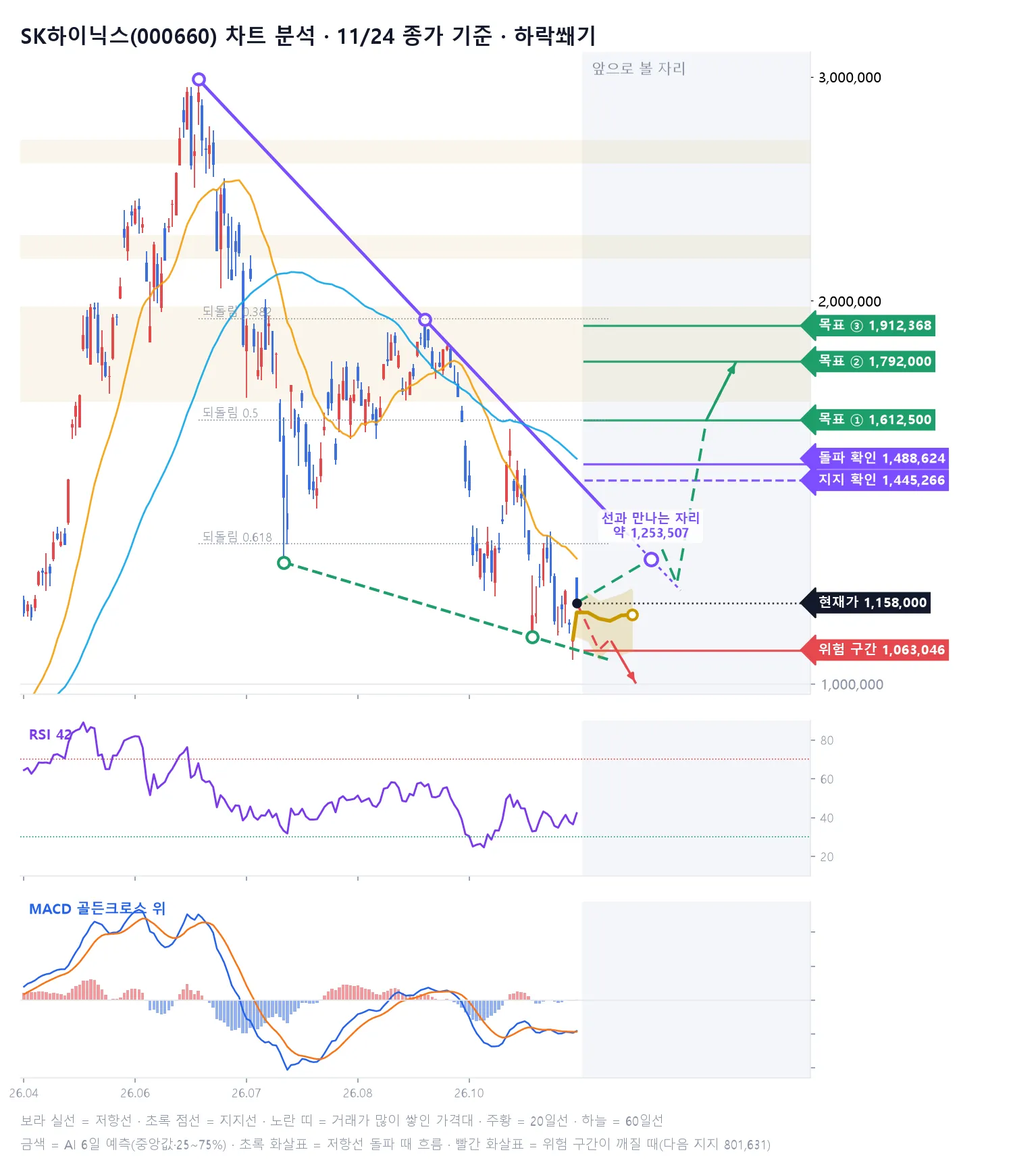
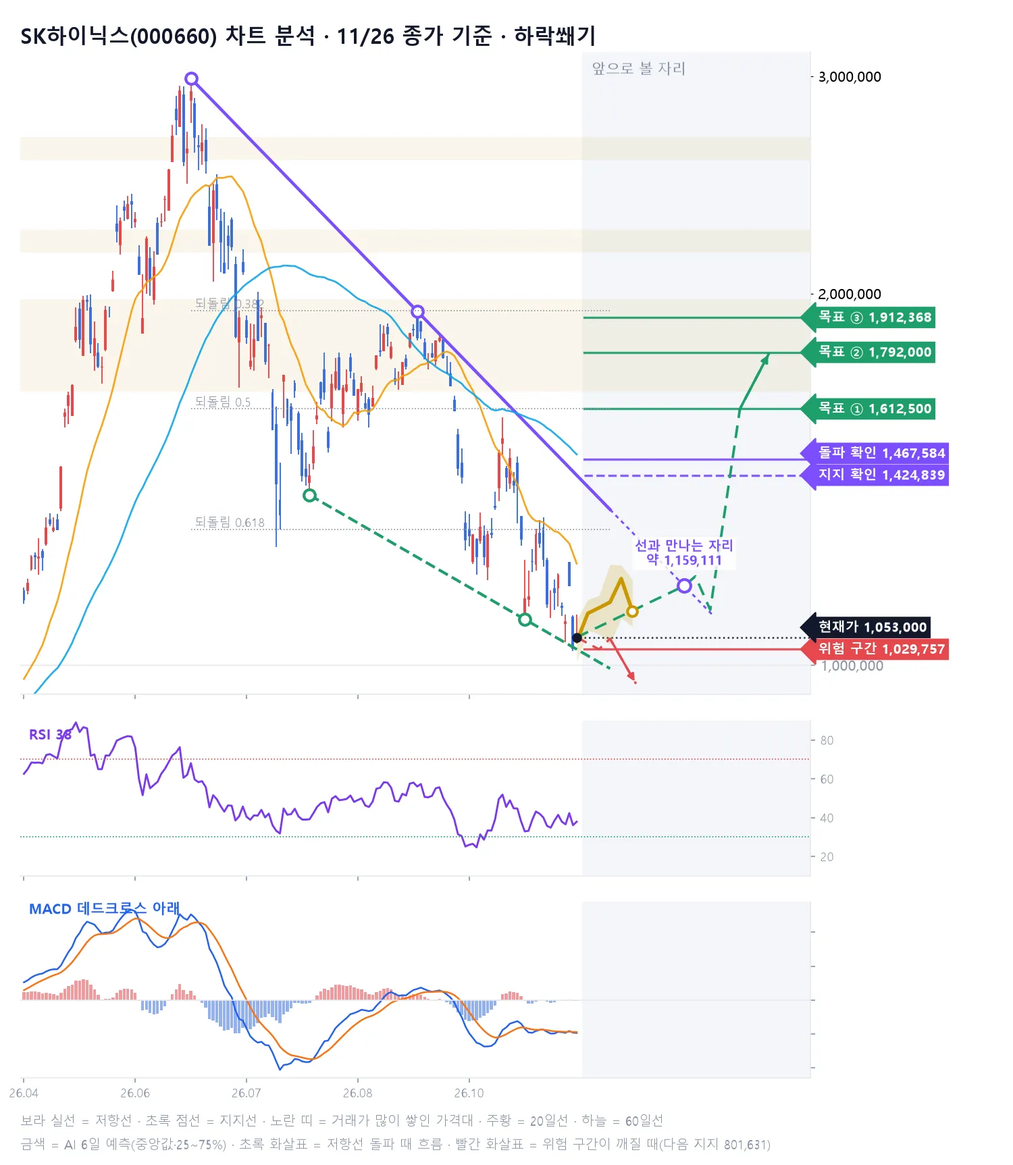
무료 공개 종목 페이지 자동 갱신

diff --git a/s/index.html b/s/index.html
@@ -93,8 +93,8 @@
     <h1>오늘의 무료 공개 종목</h1>
     <p style="margin:0;color:#B7BFD0">유튜브 쇼츠에 나온 종목의 AI 판정과 6일 예측 흐름을 누구나 볼 수 있어요</p>
   </section>
-  <div class="pk-list"><a class="card pk-item" href="BTC/"><span><b>비트코인(BTC)</b><small>코인 · 업비트 · 11/25 예측</small></span><b class="v-up">상승</b></a><a class="card pk-item" href="ETH/"><span><b>이더리움(ETH)</b><small>코인 · 업비트 · 11/26 예측</small></span><b class="v-mx">혼돈</b></a><a class="card pk-item" href="ZRO/"><span><b>레이어제로(ZRO)</b><small>코인 · 업비트 · 11/26 예측</small></span><b class="v-up">상승</b></a><a class="card pk-item" href="AAVE/"><span><b>에이브(AAVE)</b><small>코인 · 업비트 · 11/26 예측</small></span><b class="v-up">상승</b></a><a class="card pk-item" href="ENS/"><span><b>이더리움네임서비스(ENS)</b><small>코인 · 업비트 · 11/26 예측</small></span><b class="v-up">상승</b></a><a class="card pk-item" href="1INCH/"><span><b>1인치네트워크(1INCH)</b><small>코인 · 업비트 · 11/26 예측</small></span><b class="v-mx">혼돈</b></a><a class="card pk-item" href="XLM/"><span><b>스텔라루멘(XLM)</b><small>코인 · 업비트 · 11/26 예측</small></span><b class="v-up">상승</b></a><a class="card pk-item" href="NVIDIA/"><span><b>엔비디아(NVDA)</b><small>미국 주식 · 11/25 예측</small></span><b class="v-up">상승</b></a><a class="card pk-item" href="%EC%82%BC%EC%84%B1%EC%A0%84%EC%9E%90/"><span><b>삼성전자(005930)</b><small>코스피200 · 11/26 예측</small></span><b class="v-mx">혼돈</b></a><a class="card pk-item" href="%ED%98%84%EB%8C%80%EA%B1%B4%EC%84%A4/"><span><b>현대건설</b><small>코스피200 · 11/27 예측</small></span><b class="v-up">상승</b></a><a class="card pk-item" href="KODEXWTI%EC%9B%90%EC%9C%A0%EC%84%A0%EB%AC%BCH/"><span><b>KODEXWTI원유선물H</b><small>코스피200 · 11/27 예측</small></span><b class="v-mx">혼돈</b></a><a class="card pk-item" href="%EC%82%BC%EC%84%B1%EC%A4%91%EA%B3%B5%EC%97%85/"><span><b>삼성중공업</b><small>코스피200 · 11/27 예측</small></span><b class="v-up">상승</b></a><a class="card pk-item" href="LS/"><span><b>LS</b><small>코스피200 · 11/27 예측</small></span><b class="v-up">상승</b></a><a class="card pk-item" href="KB%EA%B8%88%EC%9C%B5/"><span><b>KB금융</b><small>코스피200 · 11/27 예측</small></span><b class="v-up">상승</b></a><a class="card pk-item" href="KOSDAQ/"><span><b>코스닥(KOSDAQ)</b><small>코스피 지수 · 11/27 예측</small></span><b class="v-up">상승</b></a><a class="card pk-item" href="KOSPI/"><span><b>코스피(KOSPI)</b><small>코스피 지수 · 11/27 예측</small></span><b class="v-up">상승</b></a></div>
-  <h2 style="font-size:17px;margin:12px 0 0">지난 공개 종목</h2><div class="pk-list"><a class="card pk-item" href="%EB%AF%B8%EB%9E%98%EC%97%90%EC%85%8B%EC%A6%9D%EA%B6%8C/"><span><b>미래에셋증권</b><small>코스피200 · 11/26 예측</small></span><b class="v-up">상승</b></a><a class="card pk-item" href="TIGER%EB%AF%B8%EA%B5%AD%ED%85%8C%ED%81%ACTOP10/"><span><b>TIGER미국테크TOP10</b><small>코스피200 · 11/26 예측</small></span><b class="v-up">상승</b></a><a class="card pk-item" href="KODEX200/"><span><b>KODEX200</b><small>코스피200 · 11/26 예측</small></span><b class="v-up">상승</b></a><a class="card pk-item" href="CHZ/"><span><b>칠리즈(CHZ)</b><small>코인 · 업비트 · 11/25 예측</small></span><b class="v-up">상승</b></a><a class="card pk-item" href="ARK/"><span><b>아크(ARK)</b><small>코인 · 업비트 · 11/25 예측</small></span><b class="v-mx">혼돈</b></a><a class="card pk-item" href="RUSSELL2000/"><span><b>러셀2000(RUSSELL2000)</b><small>미국 주식 · 11/25 예측</small></span><b class="v-up">상승</b></a><a class="card pk-item" href="MONSTER_BEVERAGE/"><span><b>몬스터 베버리지(MONSTER_BEVERAGE)</b><small>미국 주식 · 11/25 예측</small></span><b class="v-up">상승</b></a><a class="card pk-item" href="BITMINE/"><span><b>비트마인(BITMINE)</b><small>미국 주식 · 11/25 예측</small></span><b class="v-up">상승</b></a><a class="card pk-item" href="INTUIT/"><span><b>인튜이트(INTUIT)</b><small>미국 주식 · 11/25 예측</small></span><b class="v-up">상승</b></a><a class="card pk-item" href="GALAXY_DIGITAL/"><span><b>갤럭시 디지털(GALAXY_DIGITAL)</b><small>미국 주식 · 11/25 예측</small></span><b class="v-up">상승</b></a><a class="card pk-item" href="%EC%82%BC%EC%84%B1%EB%B0%94%EC%9D%B4%EC%98%A4%EB%A1%9C%EC%A7%81%EC%8A%A4/"><span><b>삼성바이오로직스</b><small>코스피200 · 11/25 예측</small></span><b class="v-mx">혼돈</b></a><a class="card pk-item" href="%EA%B3%A0%EB%A0%A4%EC%95%84%EC%97%B0/"><span><b>고려아연</b><small>코스피200 · 11/25 예측</small></span><b class="v-up">상승</b></a><a class="card pk-item" href="HD%ED%95%9C%EA%B5%AD%EC%A1%B0%EC%84%A0%ED%95%B4%EC%96%91/"><span><b>HD한국조선해양</b><small>코스피200 · 11/25 예측</small></span><b class="v-mx">혼돈</b></a><a class="card pk-item" href="SK%EC%9D%B4%EB%85%B8%EB%B2%A0%EC%9D%B4%EC%85%98/"><span><b>SK이노베이션</b><small>코스피200 · 11/25 예측</small></span><b class="v-up">상승</b></a><a class="card pk-item" href="SK%ED%95%98%EC%9D%B4%EB%8B%89%EC%8A%A4/"><span><b>SK하이닉스(000660)</b><small>코스피200 · 11/24 예측</small></span><b class="v-up">상승</b></a><a class="card pk-item" href="ATH/"><span><b>에이셔(ATH)</b><small>코인 · 업비트 · 11/24 예측</small></span><b class="v-up">상승</b></a><a class="card pk-item" href="DATA/"><span><b>데이터네트워크(DATA)</b><small>코인 · 업비트 · 11/24 예측</small></span><b class="v-mx">혼돈</b></a><a class="card pk-item" href="KODEX2%EC%B0%A8%EC%A0%84%EC%A7%80%EC%82%B0%EC%97%85/"><span><b>KODEX2차전지산업</b><small>코스피200 · 11/24 예측</small></span><b class="v-up">상승</b></a><a class="card pk-item" href="TIGER2%EC%B0%A8%EC%A0%84%EC%A7%80%ED%85%8C%EB%A7%88/"><span><b>TIGER2차전지테마</b><small>코스피200 · 11/24 예측</small></span><b class="v-up">상승</b></a><a class="card pk-item" href="KODEX%EC%9E%90%EB%8F%99%EC%B0%A8/"><span><b>KODEX자동차</b><small>코스피200 · 11/24 예측</small></span><b class="v-up">상승</b></a><a class="card pk-item" href="%ED%95%9C%ED%99%94/"><span><b>한화</b><small>코스피200 · 11/24 예측</small></span><b class="v-up">상승</b></a><a class="card pk-item" href="SAND/"><span><b>샌드박스(SAND)</b><small>코인 · 업비트 · 11/23 예측</small></span><b class="v-up">상승</b></a><a class="card pk-item" href="SUI/"><span><b>수이(SUI)</b><small>코인 · 업비트 · 11/23 예측</small></span><b class="v-up">상승</b></a><a class="card pk-item" href="MTL/"><span><b>메탈(MTL)</b><small>코인 · 업비트 · 11/22 예측</small></span><b class="v-up">상승</b></a><a class="card pk-item" href="TESLA/"><span><b>테슬라(TSLA)</b><small>미국 주식 · 11/21 예측</small></span><b class="v-up">상승</b></a><a class="card pk-item" href="PALANTIR/"><span><b>팔란티어(PALANTIR)</b><small>미국 주식 · 11/21 예측</small></span><b class="v-up">상승</b></a><a class="card pk-item" href="DOW/"><span><b>다우존스(DOW)</b><small>미국 주식 · 11/21 예측</small></span><b class="v-up">상승</b></a><a class="card pk-item" href="MERCADOLIBRE/"><span><b>메르카도리브레(MERCADOLIBRE)</b><small>미국 주식 · 11/21 예측</small></span><b class="v-up">상승</b></a><a class="card pk-item" href="%ED%95%9C%ED%99%94%EC%86%94%EB%A3%A8%EC%85%98/"><span><b>한화솔루션</b><small>코스피200 · 11/21 예측</small></span><b class="v-mx">혼돈</b></a><a class="card pk-item" href="KODEX%EB%AF%B8%EA%B5%AD%EB%82%98%EC%8A%A4%EB%8B%A5100TR/"><span><b>KODEX미국나스닥100TR</b><small>코스피200 · 11/21 예측</small></span><b class="v-up">상승</b></a><a class="card pk-item" href="ETC/"><span><b>이더리움클래식(ETC)</b><small>코인 · 업비트 · 11/21 예측</small></span><b class="v-up">상승</b></a><a class="card pk-item" href="MANA/"><span><b>디센트럴랜드(MANA)</b><small>코인 · 업비트 · 11/21 예측</small></span><b class="v-up">상승</b></a><a class="card pk-item" href="APT/"><span><b>앱토스(APT)</b><small>코인 · 업비트 · 11/20 예측</small></span><b class="v-up">상승</b></a><a class="card pk-item" href="STRAX/"><span><b>저트라(STRAX)</b><small>코인 · 업비트 · 11/20 예측</small></span><b class="v-up">상승</b></a><a class="card pk-item" href="%ED%95%9C%EC%A0%84%EA%B8%B0%EC%88%A0/"><span><b>한전기술</b><small>코스피200 · 11/20 예측</small></span><b class="v-up">상승</b></a><a class="card pk-item" href="KODEX%EA%B3%A8%EB%93%9C%EC%84%A0%EB%AC%BCH/"><span><b>KODEX골드선물H</b><small>코스피200 · 11/20 예측</small></span><b class="v-mx">혼돈</b></a><a class="card pk-item" href="STRATEGY/"><span><b>스트래티지(STRATEGY)</b><small>미국 주식 · 11/19 예측</small></span><b class="v-up">상승</b></a><a class="card pk-item" href="NETFLIX/"><span><b>넷플릭스(NETFLIX)</b><small>미국 주식 · 11/19 예측</small></span><b class="v-up">상승</b></a><a class="card pk-item" href="SHIB/"><span><b>시바이누(SHIB)</b><small>코인 · 업비트 · 11/19 예측</small></span><b class="v-up">상승</b></a><a class="card pk-item" href="TOKAMAK/"><span><b>토카막네트워크(TOKAMAK)</b><small>코인 · 업비트 · 11/19 예측</small></span><b class="v-up">상승</b></a><a class="card pk-item" href="TIGER%EB%AF%B8%EA%B5%ADSP500/"><span><b>TIGER미국SP500</b><small>코스피200 · 11/19 예측</small></span><b class="v-mx">혼돈</b></a><a class="card pk-item" href="%EA%B8%B0%EC%95%84/"><span><b>기아</b><small>코스피200 · 11/19 예측</small></span><b class="v-mx">혼돈</b></a><a class="card pk-item" href="%ED%98%84%EB%8C%80%EB%A1%9C%ED%85%9C/"><span><b>현대로템</b><small>코스피200 · 11/19 예측</small></span><b class="v-up">상승</b></a><a class="card pk-item" href="TIGER%EB%B0%98%EB%8F%84%EC%B2%B4TOP10/"><span><b>TIGER반도체TOP10</b><small>코스피200 · 11/19 예측</small></span><b class="v-up">상승</b></a><a class="card pk-item" href="MBL/"><span><b>무비블록(MBL)</b><small>코인 · 업비트 · 11/18 예측</small></span><b class="v-up">상승</b></a><a class="card pk-item" href="SC/"><span><b>시아코인(SC)</b><small>코인 · 업비트 · 11/18 예측</small></span><b class="v-up">상승</b></a><a class="card pk-item" href="ELF/"><span><b>엘프(ELF)</b><small>코인 · 업비트 · 11/18 예측</small></span><b class="v-up">상승</b></a><a class="card pk-item" href="NASDAQ100/"><span><b>나스닥100(NASDAQ100)</b><small>미국 주식 · 11/18 예측</small></span><b class="v-up">상승</b></a><a class="card pk-item" href="NASDAQ/"><span><b>나스닥(NASDAQ)</b><small>미국 주식 · 11/18 예측</small></span><b class="v-up">상승</b></a><a class="card pk-item" href="DB%ED%95%98%EC%9D%B4%ED%85%8D/"><span><b>DB하이텍</b><small>코스피200 · 11/18 예측</small></span><b class="v-up">상승</b></a><a class="card pk-item" href="%ED%95%9C%ED%99%94%EC%83%9D%EB%AA%85/"><span><b>한화생명</b><small>코스피200 · 11/18 예측</small></span><b class="v-mx">혼돈</b></a><a class="card pk-item" href="SOL/"><span><b>솔라나(SOL)</b><small>코인 · 업비트 · 11/17 예측</small></span><b class="v-up">상승</b></a><a class="card pk-item" href="HBAR/"><span><b>헤데라(HBAR)</b><small>코인 · 업비트 · 11/17 예측</small></span><b class="v-up">상승</b></a><a class="card pk-item" href="NEAR/"><span><b>니어프로토콜(NEAR)</b><small>코인 · 업비트 · 11/17 예측</small></span><b class="v-up">상승</b></a><a class="card pk-item" href="CISCO/"><span><b>시스코(CISCO)</b><small>미국 주식 · 11/17 예측</small></span><b class="v-up">상승</b></a><a class="card pk-item" href="DB%EC%86%90%ED%95%B4%EB%B3%B4%ED%97%98/"><span><b>DB손해보험</b><small>코스피200 · 11/17 예측</small></span><b class="v-up">상승</b></a><a class="card pk-item" href="NIKKEI225/"><span><b>NIKKEI225</b><small>코스피200 · 11/17 예측</small></span><b class="v-up">상승</b></a><a class="card pk-item" href="LG/"><span><b>LG</b><small>코스피200 · 11/17 예측</small></span><b class="v-up">상승</b></a><a class="card pk-item" href="NEO/"><span><b>네오(NEO)</b><small>코인 · 업비트 · 11/16 예측</small></span><b class="v-up">상승</b></a><a class="card pk-item" href="MED/"><span><b>메디블록(MED)</b><small>코인 · 업비트 · 11/16 예측</small></span><b class="v-up">상승</b></a><a class="card pk-item" href="VET/"><span><b>비체인(VET)</b><small>코인 · 업비트 · 11/16 예측</small></span><b class="v-up">상승</b></a><a class="card pk-item" href="TFUEL/"><span><b>쎄타퓨엘(TFUEL)</b><small>코인 · 업비트 · 11/16 예측</small></span><b class="v-up">상승</b></a><a class="card pk-item" href="SP500/"><span><b>S&amp;P500(SPX)</b><small>미국 주식 · 11/14 예측</small></span><b class="v-dn">하락</b></a><a class="card pk-item" href="BITCOIN_ETF_FIDELITY/"><span><b>비트코인 현물 피델리티(BITCOIN_ETF_FIDELITY)</b><small>미국 주식 · 11/14 예측</small></span><b class="v-up">상승</b></a><a class="card pk-item" href="BITCOIN_ETF_ISHARES/"><span><b>비트코인 현물 아이셰어즈(BITCOIN_ETF_ISHARES)</b><small>미국 주식 · 11/14 예측</small></span><b class="v-up">상승</b></a></div>
+  <div class="pk-list"><a class="card pk-item" href="ETH/"><span><b>이더리움(ETH)</b><small>코인 · 업비트 · 11/26 예측</small></span><b class="v-mx">혼돈</b></a><a class="card pk-item" href="ZRO/"><span><b>레이어제로(ZRO)</b><small>코인 · 업비트 · 11/26 예측</small></span><b class="v-up">상승</b></a><a class="card pk-item" href="AAVE/"><span><b>에이브(AAVE)</b><small>코인 · 업비트 · 11/26 예측</small></span><b class="v-up">상승</b></a><a class="card pk-item" href="ENS/"><span><b>이더리움네임서비스(ENS)</b><small>코인 · 업비트 · 11/26 예측</small></span><b class="v-up">상승</b></a><a class="card pk-item" href="1INCH/"><span><b>1인치네트워크(1INCH)</b><small>코인 · 업비트 · 11/26 예측</small></span><b class="v-mx">혼돈</b></a><a class="card pk-item" href="XLM/"><span><b>스텔라루멘(XLM)</b><small>코인 · 업비트 · 11/26 예측</small></span><b class="v-up">상승</b></a><a class="card pk-item" href="SK%ED%95%98%EC%9D%B4%EB%8B%89%EC%8A%A4/"><span><b>SK하이닉스(000660)</b><small>코스피200 · 11/27 예측</small></span><b class="v-mx">혼돈</b></a><a class="card pk-item" href="%EC%82%BC%EC%84%B1%EC%A0%84%EC%9E%90/"><span><b>삼성전자(005930)</b><small>코스피200 · 11/26 예측</small></span><b class="v-mx">혼돈</b></a><a class="card pk-item" href="%ED%98%84%EB%8C%80%EA%B1%B4%EC%84%A4/"><span><b>현대건설</b><small>코스피200 · 11/27 예측</small></span><b class="v-up">상승</b></a><a class="card pk-item" href="KODEXWTI%EC%9B%90%EC%9C%A0%EC%84%A0%EB%AC%BCH/"><span><b>KODEXWTI원유선물H</b><small>코스피200 · 11/27 예측</small></span><b class="v-mx">혼돈</b></a><a class="card pk-item" href="%EC%82%BC%EC%84%B1%EC%A4%91%EA%B3%B5%EC%97%85/"><span><b>삼성중공업</b><small>코스피200 · 11/27 예측</small></span><b class="v-up">상승</b></a><a class="card pk-item" href="LS/"><span><b>LS</b><small>코스피200 · 11/27 예측</small></span><b class="v-up">상승</b></a><a class="card pk-item" href="KB%EA%B8%88%EC%9C%B5/"><span><b>KB금융</b><small>코스피200 · 11/27 예측</small></span><b class="v-up">상승</b></a><a class="card pk-item" href="KOSDAQ/"><span><b>코스닥(KOSDAQ)</b><small>코스피 지수 · 11/27 예측</small></span><b class="v-up">상승</b></a><a class="card pk-item" href="KOSPI/"><span><b>코스피(KOSPI)</b><small>코스피 지수 · 11/27 예측</small></span><b class="v-up">상승</b></a></div>
+  <h2 style="font-size:17px;margin:12px 0 0">지난 공개 종목</h2><div class="pk-list"><a class="card pk-item" href="%EB%AF%B8%EB%9E%98%EC%97%90%EC%85%8B%EC%A6%9D%EA%B6%8C/"><span><b>미래에셋증권</b><small>코스피200 · 11/26 예측</small></span><b class="v-up">상승</b></a><a class="card pk-item" href="TIGER%EB%AF%B8%EA%B5%AD%ED%85%8C%ED%81%ACTOP10/"><span><b>TIGER미국테크TOP10</b><small>코스피200 · 11/26 예측</small></span><b class="v-up">상승</b></a><a class="card pk-item" href="KODEX200/"><span><b>KODEX200</b><small>코스피200 · 11/26 예측</small></span><b class="v-up">상승</b></a><a class="card pk-item" href="BTC/"><span><b>비트코인(BTC)</b><small>코인 · 업비트 · 11/25 예측</small></span><b class="v-up">상승</b></a><a class="card pk-item" href="NVIDIA/"><span><b>엔비디아(NVDA)</b><small>미국 주식 · 11/25 예측</small></span><b class="v-up">상승</b></a><a class="card pk-item" href="CHZ/"><span><b>칠리즈(CHZ)</b><small>코인 · 업비트 · 11/25 예측</small></span><b class="v-up">상승</b></a><a class="card pk-item" href="ARK/"><span><b>아크(ARK)</b><small>코인 · 업비트 · 11/25 예측</small></span><b class="v-mx">혼돈</b></a><a class="card pk-item" href="RUSSELL2000/"><span><b>러셀2000(RUSSELL2000)</b><small>미국 주식 · 11/25 예측</small></span><b class="v-up">상승</b></a><a class="card pk-item" href="MONSTER_BEVERAGE/"><span><b>몬스터 베버리지(MONSTER_BEVERAGE)</b><small>미국 주식 · 11/25 예측</small></span><b class="v-up">상승</b></a><a class="card pk-item" href="BITMINE/"><span><b>비트마인(BITMINE)</b><small>미국 주식 · 11/25 예측</small></span><b class="v-up">상승</b></a><a class="card pk-item" href="INTUIT/"><span><b>인튜이트(INTUIT)</b><small>미국 주식 · 11/25 예측</small></span><b class="v-up">상승</b></a><a class="card pk-item" href="GALAXY_DIGITAL/"><span><b>갤럭시 디지털(GALAXY_DIGITAL)</b><small>미국 주식 · 11/25 예측</small></span><b class="v-up">상승</b></a><a class="card pk-item" href="%EC%82%BC%EC%84%B1%EB%B0%94%EC%9D%B4%EC%98%A4%EB%A1%9C%EC%A7%81%EC%8A%A4/"><span><b>삼성바이오로직스</b><small>코스피200 · 11/25 예측</small></span><b class="v-mx">혼돈</b></a><a class="card pk-item" href="%EA%B3%A0%EB%A0%A4%EC%95%84%EC%97%B0/"><span><b>고려아연</b><small>코스피200 · 11/25 예측</small></span><b class="v-up">상승</b></a><a class="card pk-item" href="HD%ED%95%9C%EA%B5%AD%EC%A1%B0%EC%84%A0%ED%95%B4%EC%96%91/"><span><b>HD한국조선해양</b><small>코스피200 · 11/25 예측</small></span><b class="v-mx">혼돈</b></a><a class="card pk-item" href="SK%EC%9D%B4%EB%85%B8%EB%B2%A0%EC%9D%B4%EC%85%98/"><span><b>SK이노베이션</b><small>코스피200 · 11/25 예측</small></span><b class="v-up">상승</b></a><a class="card pk-item" href="ATH/"><span><b>에이셔(ATH)</b><small>코인 · 업비트 · 11/24 예측</small></span><b class="v-up">상승</b></a><a class="card pk-item" href="DATA/"><span><b>데이터네트워크(DATA)</b><small>코인 · 업비트 · 11/24 예측</small></span><b class="v-mx">혼돈</b></a><a class="card pk-item" href="KODEX2%EC%B0%A8%EC%A0%84%EC%A7%80%EC%82%B0%EC%97%85/"><span><b>KODEX2차전지산업</b><small>코스피200 · 11/24 예측</small></span><b class="v-up">상승</b></a><a class="card pk-item" href="TIGER2%EC%B0%A8%EC%A0%84%EC%A7%80%ED%85%8C%EB%A7%88/"><span><b>TIGER2차전지테마</b><small>코스피200 · 11/24 예측</small></span><b class="v-up">상승</b></a><a class="card pk-item" href="KODEX%EC%9E%90%EB%8F%99%EC%B0%A8/"><span><b>KODEX자동차</b><small>코스피200 · 11/24 예측</small></span><b class="v-up">상승</b></a><a class="card pk-item" href="%ED%95%9C%ED%99%94/"><span><b>한화</b><small>코스피200 · 11/24 예측</small></span><b class="v-up">상승</b></a><a class="card pk-item" href="SAND/"><span><b>샌드박스(SAND)</b><small>코인 · 업비트 · 11/23 예측</small></span><b class="v-up">상승</b></a><a class="card pk-item" href="SUI/"><span><b>수이(SUI)</b><small>코인 · 업비트 · 11/23 예측</small></span><b class="v-up">상승</b></a><a class="card pk-item" href="MTL/"><span><b>메탈(MTL)</b><small>코인 · 업비트 · 11/22 예측</small></span><b class="v-up">상승</b></a><a class="card pk-item" href="TESLA/"><span><b>테슬라(TSLA)</b><small>미국 주식 · 11/21 예측</small></span><b class="v-up">상승</b></a><a class="card pk-item" href="PALANTIR/"><span><b>팔란티어(PALANTIR)</b><small>미국 주식 · 11/21 예측</small></span><b class="v-up">상승</b></a><a class="card pk-item" href="DOW/"><span><b>다우존스(DOW)</b><small>미국 주식 · 11/21 예측</small></span><b class="v-up">상승</b></a><a class="card pk-item" href="MERCADOLIBRE/"><span><b>메르카도리브레(MERCADOLIBRE)</b><small>미국 주식 · 11/21 예측</small></span><b class="v-up">상승</b></a><a class="card pk-item" href="%ED%95%9C%ED%99%94%EC%86%94%EB%A3%A8%EC%85%98/"><span><b>한화솔루션</b><small>코스피200 · 11/21 예측</small></span><b class="v-mx">혼돈</b></a><a class="card pk-item" href="KODEX%EB%AF%B8%EA%B5%AD%EB%82%98%EC%8A%A4%EB%8B%A5100TR/"><span><b>KODEX미국나스닥100TR</b><small>코스피200 · 11/21 예측</small></span><b class="v-up">상승</b></a><a class="card pk-item" href="ETC/"><span><b>이더리움클래식(ETC)</b><small>코인 · 업비트 · 11/21 예측</small></span><b class="v-up">상승</b></a><a class="card pk-item" href="MANA/"><span><b>디센트럴랜드(MANA)</b><small>코인 · 업비트 · 11/21 예측</small></span><b class="v-up">상승</b></a><a class="card pk-item" href="APT/"><span><b>앱토스(APT)</b><small>코인 · 업비트 · 11/20 예측</small></span><b class="v-up">상승</b></a><a class="card pk-item" href="STRAX/"><span><b>저트라(STRAX)</b><small>코인 · 업비트 · 11/20 예측</small></span><b class="v-up">상승</b></a><a class="card pk-item" href="%ED%95%9C%EC%A0%84%EA%B8%B0%EC%88%A0/"><span><b>한전기술</b><small>코스피200 · 11/20 예측</small></span><b class="v-up">상승</b></a><a class="card pk-item" href="KODEX%EA%B3%A8%EB%93%9C%EC%84%A0%EB%AC%BCH/"><span><b>KODEX골드선물H</b><small>코스피200 · 11/20 예측</small></span><b class="v-mx">혼돈</b></a><a class="card pk-item" href="STRATEGY/"><span><b>스트래티지(STRATEGY)</b><small>미국 주식 · 11/19 예측</small></span><b class="v-up">상승</b></a><a class="card pk-item" href="NETFLIX/"><span><b>넷플릭스(NETFLIX)</b><small>미국 주식 · 11/19 예측</small></span><b class="v-up">상승</b></a><a class="card pk-item" href="SHIB/"><span><b>시바이누(SHIB)</b><small>코인 · 업비트 · 11/19 예측</small></span><b class="v-up">상승</b></a><a class="card pk-item" href="TOKAMAK/"><span><b>토카막네트워크(TOKAMAK)</b><small>코인 · 업비트 · 11/19 예측</small></span><b class="v-up">상승</b></a><a class="card pk-item" href="TIGER%EB%AF%B8%EA%B5%ADSP500/"><span><b>TIGER미국SP500</b><small>코스피200 · 11/19 예측</small></span><b class="v-mx">혼돈</b></a><a class="card pk-item" href="%EA%B8%B0%EC%95%84/"><span><b>기아</b><small>코스피200 · 11/19 예측</small></span><b class="v-mx">혼돈</b></a><a class="card pk-item" href="%ED%98%84%EB%8C%80%EB%A1%9C%ED%85%9C/"><span><b>현대로템</b><small>코스피200 · 11/19 예측</small></span><b class="v-up">상승</b></a><a class="card pk-item" href="TIGER%EB%B0%98%EB%8F%84%EC%B2%B4TOP10/"><span><b>TIGER반도체TOP10</b><small>코스피200 · 11/19 예측</small></span><b class="v-up">상승</b></a><a class="card pk-item" href="MBL/"><span><b>무비블록(MBL)</b><small>코인 · 업비트 · 11/18 예측</small></span><b class="v-up">상승</b></a><a class="card pk-item" href="SC/"><span><b>시아코인(SC)</b><small>코인 · 업비트 · 11/18 예측</small></span><b class="v-up">상승</b></a><a class="card pk-item" href="ELF/"><span><b>엘프(ELF)</b><small>코인 · 업비트 · 11/18 예측</small></span><b class="v-up">상승</b></a><a class="card pk-item" href="NASDAQ100/"><span><b>나스닥100(NASDAQ100)</b><small>미국 주식 · 11/18 예측</small></span><b class="v-up">상승</b></a><a class="card pk-item" href="NASDAQ/"><span><b>나스닥(NASDAQ)</b><small>미국 주식 · 11/18 예측</small></span><b class="v-up">상승</b></a><a class="card pk-item" href="DB%ED%95%98%EC%9D%B4%ED%85%8D/"><span><b>DB하이텍</b><small>코스피200 · 11/18 예측</small></span><b class="v-up">상승</b></a><a class="card pk-item" href="%ED%95%9C%ED%99%94%EC%83%9D%EB%AA%85/"><span><b>한화생명</b><small>코스피200 · 11/18 예측</small></span><b class="v-mx">혼돈</b></a><a class="card pk-item" href="SOL/"><span><b>솔라나(SOL)</b><small>코인 · 업비트 · 11/17 예측</small></span><b class="v-up">상승</b></a><a class="card pk-item" href="HBAR/"><span><b>헤데라(HBAR)</b><small>코인 · 업비트 · 11/17 예측</small></span><b class="v-up">상승</b></a><a class="card pk-item" href="NEAR/"><span><b>니어프로토콜(NEAR)</b><small>코인 · 업비트 · 11/17 예측</small></span><b class="v-up">상승</b></a><a class="card pk-item" href="CISCO/"><span><b>시스코(CISCO)</b><small>미국 주식 · 11/17 예측</small></span><b class="v-up">상승</b></a><a class="card pk-item" href="DB%EC%86%90%ED%95%B4%EB%B3%B4%ED%97%98/"><span><b>DB손해보험</b><small>코스피200 · 11/17 예측</small></span><b class="v-up">상승</b></a><a class="card pk-item" href="NIKKEI225/"><span><b>NIKKEI225</b><small>코스피200 · 11/17 예측</small></span><b class="v-up">상승</b></a><a class="card pk-item" href="LG/"><span><b>LG</b><small>코스피200 · 11/17 예측</small></span><b class="v-up">상승</b></a><a class="card pk-item" href="NEO/"><span><b>네오(NEO)</b><small>코인 · 업비트 · 11/16 예측</small></span><b class="v-up">상승</b></a><a class="card pk-item" href="MED/"><span><b>메디블록(MED)</b><small>코인 · 업비트 · 11/16 예측</small></span><b class="v-up">상승</b></a><a class="card pk-item" href="VET/"><span><b>비체인(VET)</b><small>코인 · 업비트 · 11/16 예측</small></span><b class="v-up">상승</b></a><a class="card pk-item" href="TFUEL/"><span><b>쎄타퓨엘(TFUEL)</b><small>코인 · 업비트 · 11/16 예측</small></span><b class="v-up">상승</b></a><a class="card pk-item" href="SP500/"><span><b>S&amp;P500(SPX)</b><small>미국 주식 · 11/14 예측</small></span><b class="v-dn">하락</b></a><a class="card pk-item" href="BITCOIN_ETF_FIDELITY/"><span><b>비트코인 현물 피델리티(BITCOIN_ETF_FIDELITY)</b><small>미국 주식 · 11/14 예측</small></span><b class="v-up">상승</b></a><a class="card pk-item" href="BITCOIN_ETF_ISHARES/"><span><b>비트코인 현물 아이셰어즈(BITCOIN_ETF_ISHARES)</b><small>미국 주식 · 11/14 예측</small></span><b class="v-up">상승</b></a></div>
   <section class="card pk-cta">
     <b style="font-size:17px">전체 종목 순위와 모델별 차트는 회원 화면에서</b>
     <a class="btn big red" href="../login.html?next=index.html#signup" data-member="../index.html" data-member-text="내 포털로 가기">7일 무료로 시작하기</a>

diff --git a/s/SK하이닉스/index.html b/s/SK하이닉스/index.html
@@ -3,13 +3,13 @@
 <head>
 <meta charset="utf-8">
 <meta name="viewport" content="width=device-width, initial-scale=1">
-<title>SK하이닉스(000660) 전망 11/24 · AI 52개 모델 6일 예측 | AI 신호등</title>
-<meta name="description" content="11/24 기준 SK하이닉스(000660) 다음 거래일 AI 판정은 &#x27;상승&#x27;. 52개 모델 중 상승 37 · 하락 9. 6일 뒤 예측 중앙값 +4.5%. 52개 예측 모델의 6일 가격 흐름을 신호등으로 정리했어요.">
+<title>SK하이닉스(000660) 전망 11/27 · AI 52개 모델 6일 예측 | AI 신호등</title>
+<meta name="description" content="11/27 기준 SK하이닉스(000660) 다음 거래일 AI 판정은 &#x27;혼돈&#x27;. 52개 모델 중 상승 23 · 하락 24. 6일 뒤 예측 중앙값 +5.0%. 52개 예측 모델의 6일 가격 흐름을 신호등으로 정리했어요.">
 <link rel="canonical" href="https://www.ai-sinhodeung.co.kr/s/SK%ED%95%98%EC%9D%B4%EB%8B%89%EC%8A%A4/">
 <meta property="og:type" content="article">
 <meta property="og:site_name" content="AI 신호등">
-<meta property="og:title" content="SK하이닉스(000660) 전망 11/24 · AI 52개 모델 6일 예측 | AI 신호등">
-<meta property="og:description" content="11/24 기준 SK하이닉스(000660) 다음 거래일 AI 판정은 &#x27;상승&#x27;. 52개 모델 중 상승 37 · 하락 9. 6일 뒤 예측 중앙값 +4.5%. 52개 예측 모델의 6일 가격 흐름을 신호등으로 정리했어요.">
+<meta property="og:title" content="SK하이닉스(000660) 전망 11/27 · AI 52개 모델 6일 예측 | AI 신호등">
+<meta property="og:description" content="11/27 기준 SK하이닉스(000660) 다음 거래일 AI 판정은 &#x27;혼돈&#x27;. 52개 모델 중 상승 23 · 하락 24. 6일 뒤 예측 중앙값 +5.0%. 52개 예측 모델의 6일 가격 흐름을 신호등으로 정리했어요.">
 <meta property="og:url" content="https://www.ai-sinhodeung.co.kr/s/SK%ED%95%98%EC%9D%B4%EB%8B%89%EC%8A%A4/">
 <meta property="og:image" content="https://www.ai-sinhodeung.co.kr/assets/og-image.png">
 <meta property="og:locale" content="ko_KR">
@@ -76,7 +76,7 @@
 .ca-g.npn { border-color: #C99700 !important; background: #FFF8E1; } .ca-g.npn b { color: #A87E00 !important; }
 .ca-flash { animation: caf 1.6s ease-out; } @keyframes caf { 0%, 40% { box-shadow: 0 0 0 3px #C99700; } 100% { box-shadow: 0 0 0 0 transparent; } }
 </style>
-<script type="application/ld+json">{"@context": "https://schema.org", "@type": "Article", "headline": "SK하이닉스(000660) 전망 11/24 · AI 52개 모델 6일 예측 | AI 신호등", "description": "11/24 기준 SK하이닉스(000660) 다음 거래일 AI 판정은 '상승'. 52개 모델 중 상승 37 · 하락 9. 6일 뒤 예측 중앙값 +4.5%. 52개 예측 모델의 6일 가격 흐름을 신호등으로 정리했어요.", "dateModified": "2026-11-24", "inLanguage": "ko", "url": "https://www.ai-sinhodeung.co.kr/s/SK%ED%95%98%EC%9D%B4%EB%8B%89%EC%8A%A4/", "publisher": {"@type": "Organization", "name": "AI 신호등", "url": "https://www.ai-sinhodeung.co.kr"}}</script>
+<script type="application/ld+json">{"@context": "https://schema.org", "@type": "Article", "headline": "SK하이닉스(000660) 전망 11/27 · AI 52개 모델 6일 예측 | AI 신호등", "description": "11/27 기준 SK하이닉스(000660) 다음 거래일 AI 판정은 '혼돈'. 52개 모델 중 상승 23 · 하락 24. 6일 뒤 예측 중앙값 +5.0%. 52개 예측 모델의 6일 가격 흐름을 신호등으로 정리했어요.", "dateModified": "2026-11-27", "inLanguage": "ko", "url": "https://www.ai-sinhodeung.co.kr/s/SK%ED%95%98%EC%9D%B4%EB%8B%89%EC%8A%A4/", "publisher": {"@type": "Organization", "name": "AI 신호등", "url": "https://www.ai-sinhodeung.co.kr"}}</script>
 </head>
 <body class="home landing">
 <header class="topbar">
@@ -89,65 +89,65 @@
 
 <main class="pk">
   <section class="pk-hero on-night">
-    <small>코스피200 · 11/24 예측 · AI 모델 52개</small>
+    <small>코스피200 · 11/27 예측 · AI 모델 52개</small>
     <h1>SK하이닉스(000660) 전망</h1>
   </section>
 
   <section class="card">
     <div class="pk-verdict">
-      <div class="lamp up" aria-hidden="true"><i></i><i></i><i></i></div>
+      <div class="lamp mx" aria-hidden="true"><i></i><i></i><i></i></div>
       <div><small style="color:var(--muted);font-size:12.5px">다음 거래일(D+1) AI 판정</small><br>
-        <b class="v-up">상승</b><br><span>52개 모델 중 상승 37 · 하락 9</span></div>
+        <b class="v-mx">혼돈</b><br><span>52개 모델 중 상승 23 · 하락 24</span></div>
     </div>
-    <p style="margin:10px 0 0;color:var(--sub);font-size:14px">참고: 박스권 횡보</p>
+    <p style="margin:10px 0 0;color:var(--sub);font-size:14px">참고: D+5 고점 후 되돌림</p>
   </section>
 
   <section class="card">
     <h3 style="margin-bottom:6px">6일 예측 흐름</h3>
-    <p class="hint" style="margin:0 0 10px;font-size:13px">기준가 1,085,000원 · 6일 뒤 예측 중앙값 <b class="v-up">+4.5%</b></p>
+    <p class="hint" style="margin:0 0 10px;font-size:13px">기준가 1,053,000원 · 6일 뒤 예측 중앙값 <b class="v-mx">+5.0%</b></p>
     <svg viewBox="0 0 520 300" role="img" aria-label="최근 8일 종가와 앞으로 6일 예측 범위" class="pk-chart">
   <line x1="277.1" y1="30" x2="277.1" y2="266" stroke="#C5CAD6" stroke-dasharray="4 4"/>
-  <polygon points="277.1,209.6 315.2,141.1 353.4,117.9 391.5,134.9 429.7,127.9 467.8,120.4 506.0,107.5 506.0,232.0 467.8,240.0 429.7,224.5 391.5,249.7 353.4,214.8 315.2,206.4 277.1,209.6" fill="#E5383B" fill-opacity=".14"/>
-  <polyline points="10.0,46.3 48.2,83.0 86.3,175.8 124.5,197.1 162.6,152.6 200.8,114.9 238.9,182.6 277.1,209.6" fill="none" stroke="#12182B" stroke-width="2.4" stroke-linejoin="round"/>
-  <polyline points="277.1,209.6 315.2,158.6 353.4,158.6 391.5,170.7 429.7,175.2 467.8,164.5 506.0,162.9" fill="none" stroke="#E5383B" stroke-width="3" stroke-linejoin="round"/>
-  <circle cx="277.1" cy="209.6" r="4.5" fill="#12182B"/>
-  <circle cx="506.0" cy="162.9" r="6" fill="#fff" stroke="#E5383B" stroke-width="3"/>
-  <text x="506" y="20" text-anchor="end" font-size="18" font-weight="700" fill="#E5383B">6일 뒤 +4.5%</text>
-  <text x="10" y="290" font-size="15" fill="#8A93A6">11-12</text>
-  <text x="277.1" y="290" font-size="15" fill="#12182B" text-anchor="middle" font-weight="600">11-23 기준</text>
-  <text x="506" y="290" font-size="15" fill="#8A93A6" text-anchor="end">11-29</text>
+  <polygon points="277.1,202.7 315.2,166.4 353.4,124.1 391.5,115.7 429.7,46.3 467.8,47.8 506.0,79.9 506.0,181.3 467.8,163.3 429.7,216.6 391.5,195.9 353.4,189.1 315.2,249.7 277.1,202.7" fill="#C99700" fill-opacity=".14"/>
+  <polyline points="10.0,156.7 48.2,109.8 86.3,69.9 124.5,141.4 162.6,170.0 200.8,95.5 238.9,226.2 277.1,202.7" fill="none" stroke="#12182B" stroke-width="2.4" stroke-linejoin="round"/>
+  <polyline points="277.1,202.7 315.2,211.4 353.4,153.4 391.5,141.9 429.7,129.8 467.8,78.2 506.0,148.5" fill="none" stroke="#C99700" stroke-width="3" stroke-linejoin="round"/>
+  <circle cx="277.1" cy="202.7" r="4.5" fill="#12182B"/>
+  <circle cx="506.0" cy="148.5" r="6" fill="#fff" stroke="#C99700" stroke-width="3"/>
+  <text x="506" y="20" text-anchor="end" font-size="18" font-weight="700" fill="#C99700">6일 뒤 +5.0%</text>
+  <text x="10" y="290" font-size="15" fill="#8A93A6">11-17</text>
+  <text x="277.1" y="290" font-size="15" fill="#12182B" text-anchor="middle" font-weight="600">11-26 기준</text>
+  <text x="506" y="290" font-size="15" fill="#8A93A6" text-anchor="end">12-02</text>
 </svg>
-    <div class="pk-legend"><span><i style="background:#12182B"></i>실제 종가</span><span><i style="background:#E5383B"></i>모델 예측 중앙값</span><span><i style="background:#E5383B;height:8px;opacity:.2"></i>모델 25~75% 범위</span></div>
+    <div class="pk-legend"><span><i style="background:#12182B"></i>실제 종가</span><span><i style="background:#C99700"></i>모델 예측 중앙값</span><span><i style="background:#C99700;height:8px;opacity:.2"></i>모델 25~75% 범위</span></div>
   </section>
 
 
   <section class="card pk-cta">
     <b style="font-size:17px">📐 차트로 보면 어떤 자리일까?</b>
-    <p style="font-size:15px;color:var(--ink)">📊 차트 신호 점수 <b style="color:#C99700">44점 · 중</b> · AI 포함 <b style="color:#C99700">55점 · 중</b></p>
+    <p style="font-size:15px;color:var(--ink)">📊 차트 신호 점수 <b style="color:#C99700">44점 · 중</b> · AI 포함 <b style="color:#C99700">45점 · 중</b></p>
     <button class="btn big" type="button" onclick="var c=document.getElementById('ca');c.classList.toggle('open');this.textContent=c.classList.contains('open')?'차트 분석 접기':'📐 차트 분석 보기';if(c.classList.contains('open')){c.scrollIntoView({behavior:'smooth'});try{Portal.track('pick_chart')}catch(e){}}">📐 차트 분석 보기</button>
     <p>추세선·지지선·피보나치·거래가 몰린 가격대를 자동으로 그려서, 앞으로 볼 자리를 정리했어요</p>
   </section>
 
   <section class="card ca" id="ca">
-    <h3 style="margin:0">SK하이닉스(000660) 차트 분석 <small style="color:var(--muted);font-weight:400;font-size:13px">11/24 종가 1,158,000원 기준</small></h3>
+    <h3 style="margin:0">SK하이닉스(000660) 차트 분석 <small style="color:var(--muted);font-weight:400;font-size:13px">11/26 종가 1,053,000원 기준</small></h3>
     <div class="ca-strip" aria-label="패턴 한눈에 (진한 색 = 해당, 빗금 = 근접)" onclick="var b=event.target.closest('button[data-k]');if(!b)return;var c=[].find.call(document.querySelectorAll('#ca .ca-g[data-k]'),function(d){return d.getAttribute('data-k')===b.getAttribute('data-k')});if(!c)return;c.scrollIntoView({behavior:'smooth',block:'center'});c.classList.remove('ca-flash');void c.offsetWidth;c.classList.add('ca-flash')"><button type="button" class="d" data-k="이동평균" title="이동평균 · 해당">역배열</button><button type="button" class="uh" data-k="하락쐐기" title="하락쐐기 · 근접 (가능성·완성 직전)">하락쐐기</button><span class="sep"></span><button type="button" class="off" data-k="역헤드앤숄더" title="역헤드앤숄더 · 아님">역헤드앤숄더</button><button type="button" class="off" data-k="헤드앤숄더" title="헤드앤숄더 · 아님">헤드앤숄더</button><button type="button" class="off" data-k="컵앤핸들" title="컵앤핸들 · 아님">컵앤핸들</button><button type="button" class="off" data-k="이중 바닥(W)" title="이중 바닥(W) · 아님">이중 바닥</button><button type="button" class="off" data-k="이중 천장(M)" title="이중 천장(M) · 아님">이중 천장</button><button type="button" class="off" data-k="상승쐐기" title="상승쐐기 · 아님">상승쐐기</button><button type="button" class="off" data-k="3 Tight Closes" title="3 Tight Closes · 아님">3 Tight Closes</button><button type="button" class="off" data-k="상승 페넌트" title="상승 페넌트 · 아님">상승 페넌트</button><button type="button" class="off" data-k="상승 깃발" title="상승 깃발 · 아님">상승 깃발</button><button type="button" class="off" data-k="과장 상승 다이버전스" title="과장 상승 다이버전스 · 아님">과장 상승 다이버</button></div><small style="color:var(--muted);font-size:12px;margin-top:-8px">진한 색 = 해당 · 빗금 = 근접 · 누르면 아래 설명으로 가요</small>
-    <a href="chart.webp?v=2026-11-24" target="_blank" rel="noopener"><img src="chart.webp?v=2026-11-24" alt="SK하이닉스(000660) 차트 분석: 저항선·지지선·앞으로 볼 자리" loading="lazy"></a>
+    <a href="chart.webp?v=2026-11-26" target="_blank" rel="noopener"><img src="chart.webp?v=2026-11-26" alt="SK하이닉스(000660) 차트 분석: 저항선·지지선·앞으로 볼 자리" loading="lazy"></a>
     <small style="color:var(--muted);font-size:12px;margin-top:-8px">그림을 누르면 크게 볼 수 있어요</small>
     <div class="ca-pat">지금 모양: <b>하락쐐기</b><br>고점은 빠르게, 저점은 천천히 낮아지며 좁아지는 모양 — 위로 빠져나오면 반등 신호로 봐요</div>
     
     <div class="ca-score">
       <h4 style="margin:0 0 8px">📊 차트 신호 점검</h4>
       <h4 style="margin:4px 0 0">🔎 패턴 점검</h4><div class="ca-grid"><div class="ca-g" data-k="이동평균" style="border-color:#3B6FE0"><span>이동평균</span><b style="color:#3B6FE0">역배열</b></div><div class="ca-g off" data-k="역헤드앤숄더" style=""><span>역헤드앤숄더</span><b style="color:#9AA3B5">아님</b></div><div class="ca-g off" data-k="헤드앤숄더" style=""><span>헤드앤숄더</span><b style="color:#9AA3B5">아님</b></div><div class="ca-g off" data-k="컵앤핸들" style=""><span>컵앤핸들</span><b style="color:#9AA3B5">아님</b></div><div class="ca-g off" data-k="이중 바닥(W)" style=""><span>이중 바닥(W)</span><b style="color:#9AA3B5">아님</b></div><div class="ca-g off" data-k="이중 천장(M)" style=""><span>이중 천장(M)</span><b style="color:#9AA3B5">아님</b></div><div class="ca-g" data-k="하락쐐기" style="border-color:#E5484D"><span>하락쐐기</span><b style="color:#E5484D">가능성</b></div><div class="ca-g off" data-k="상승쐐기" style=""><span>상승쐐기</span><b style="color:#9AA3B5">아님</b></div></div><small style="color:var(--muted);font-size:12px">가능성 = 모양이 만들어지는 중 · 정해 둔 규칙에 맞을 때만 표시해요</small><h4 style="margin:10px 0 0">🧩 매매 패턴 <small style="font-weight:400;color:var(--muted);font-size:12px">5년 검증에서 통한 4가지</small></h4><div class="ca-grid"><div class="ca-g off" data-k="3 Tight Closes"><span>3 Tight Closes</span><b>아님</b></div><div class="ca-g off" data-k="상승 페넌트"><span>상승 페넌트</span><b>아님</b></div><div class="ca-g off" data-k="상승 깃발"><span>상승 깃발</span><b>아님</b></div><div class="ca-g off" data-k="과장 상승 다이버전스"><span>과장 상승 다이버전스</span><b>아님</b></div></div>
-      <div class="ca-scs"><div class="ca-sc"><small>차트만 본 점수</small><b style="color:#C99700">44</b><span style="background:#C99700">중</span></div><div class="ca-sc"><small>AI 예측까지 넣은 점수</small><b style="color:#C99700">55</b><span style="background:#C99700">중</span></div></div>
+      <div class="ca-scs"><div class="ca-sc"><small>차트만 본 점수</small><b style="color:#C99700">44</b><span style="background:#C99700">중</span></div><div class="ca-sc"><small>AI 예측까지 넣은 점수</small><b style="color:#C99700">45</b><span style="background:#C99700">중</span></div></div>
       <div class="ca-chips"><span class="ca-chip">🔴 하락쐐기 · 형성 중</span></div>
       <ul class="ca-ck"><li>▫ 반전 첫 신호(저점 상승)</li><li>▫ 전고 돌파(추세 완성)</li><li>▫ 거래량 1.5배</li><li>▫ 상승 다이버전스</li><li>✅ 하락 다이버전스 없음</li><li>✅ 큰 상승(깃대) +50%</li><li>▫ 되돌림 0.618 안</li></ul>
       <ul class="ca-warn"><li>⚠ 시장: 60일선 아래 역배열</li></ul>
       <small style="color:var(--muted);font-size:12px">모양 20/40 · 점검표 12/42 · 시장 12/18 · AI 넣은 점수 = 차트×0.8 + AI 판정(상승 20·혼돈 10·하락 0) · 70↑ 강 · 40~69 중 · 40↓ 약<br>
       조건이 몇 개 맞는지 센 점수예요. 앞으로 오를 확률이 아니에요.</small>
     </div>
-    <div class="ca-combo"><b>🤖 AI 예측과 같이 보면</b><br>다음 거래일 AI 판정 &#x27;상승&#x27;. AI 6일 예측 중앙값은 +4.5%(1,133,345)로, 저항선(1,445,266)까지는 못 미쳐요 → 당분간은 돌파보다 아래 지지 자리를 지키는지 보는 구간이에요.</div>
-    <div><h4 style="margin:0 0 8px">앞으로 볼 자리</h4><div class="ca-lv"><div class="goal"><b>목표 구간 ③</b><span>1,912,368원</span><small>수평 고점</small></div><div class="goal"><b>목표 구간 ②</b><span>1,792,000원</span><small>수평 고점</small></div><div class="goal"><b>목표 구간 ①</b><span>1,612,500원</span><small>되돌림 0.5</small></div><div class="watch"><b>돌파 확인 자리</b><span>1,488,624원</span><small>종가가 저항선보다 3% 넘게 위에서 마감 (돌파 뒤 1,401,908 아래로 다시 마감하면 돌파 실패)</small></div><div class="watch"><b>지지 확인 자리</b><span>1,445,266원</span><small>돌파 뒤 저항선이 받쳐 주는지</small></div><div class="risk"><b>위험 구간</b><span>1,063,046원</span><small>지금 가격 아래 지지선. 이 아래로 마감하면 하락 흐름이 이어질 수 있어요 — 깨지면 다음 지지 801,631까지 열려 있어요</small></div></div></div>
-    <div><h4 style="margin:0 0 6px">해석</h4><ul><li>저항선이 하루에 약 0.7%씩 내려오고 있어서, &#x27;돌파 확인 자리&#x27;도 날마다 조금씩 낮아져요. 그림의 초록 점선은 가격이 이 선과 만난 뒤 돌파할 때의 예상 흐름이에요.</li><li>지금 가격은 저항선보다 25% 아래예요. 아직 돌파를 말하기엔 거리가 있어요.</li><li>직전 큰 상승(238,000 → 2,987,000)의 0.71만큼 내려왔어요. 0.618 아래는 흐름이 바뀌었을 수 있는 구간이에요.</li><li>아래에서 받쳐 줄 자리: 1,063,046 / 801,631</li><li>코스피 지수 상태: 60일선 아래 역배열 → 시장 전체가 약해서 돌파가 나와도 한 번 더 확인이 필요해요</li></ul></div>
+    <div class="ca-combo"><b>🤖 AI 예측과 같이 보면</b><br>다음 거래일 AI 판정 &#x27;혼돈&#x27;. AI 6일 예측 중앙값은 +5.0%(1,106,041)로, 저항선(1,424,839)까지는 못 미쳐요 → 당분간은 돌파보다 아래 지지 자리를 지키는지 보는 구간이에요.</div>
+    <div><h4 style="margin:0 0 8px">앞으로 볼 자리</h4><div class="ca-lv"><div class="goal"><b>목표 구간 ③</b><span>1,912,368원</span><small>수평 고점</small></div><div class="goal"><b>목표 구간 ②</b><span>1,792,000원</span><small>수평 고점</small></div><div class="goal"><b>목표 구간 ①</b><span>1,612,500원</span><small>되돌림 0.5</small></div><div class="watch"><b>돌파 확인 자리</b><span>1,467,584원</span><small>종가가 저항선보다 3% 넘게 위에서 마감 (돌파 뒤 1,382,093 아래로 다시 마감하면 돌파 실패)</small></div><div class="watch"><b>지지 확인 자리</b><span>1,424,839원</span><small>돌파 뒤 저항선이 받쳐 주는지</small></div><div class="risk"><b>위험 구간</b><span>1,029,757원</span><small>지금 가격 아래 지지선. 이 아래로 마감하면 하락 흐름이 이어질 수 있어요 — 깨지면 다음 지지 801,631까지 열려 있어요</small></div></div></div>
+    <div><h4 style="margin:0 0 6px">해석</h4><ul><li>저항선이 하루에 약 0.7%씩 내려오고 있어서, &#x27;돌파 확인 자리&#x27;도 날마다 조금씩 낮아져요. 그림의 초록 점선은 가격이 이 선과 만난 뒤 돌파할 때의 예상 흐름이에요.</li><li>지금 가격은 저항선보다 35% 아래예요. 아직 돌파를 말하기엔 거리가 있어요.</li><li>직전 큰 상승(238,000 → 2,987,000)의 0.71만큼 내려왔어요. 0.618 아래는 흐름이 바뀌었을 수 있는 구간이에요.</li><li>아래에서 받쳐 줄 자리: 1,029,757 / 801,631</li><li>코스피 지수 상태: 60일선 아래 역배열 → 시장 전체가 약해서 돌파가 나와도 한 번 더 확인이 필요해요</li></ul></div>
     <p class="pk-note" style="text-align:left">차트 모양을 규칙대로 자동 분석한 참고 자료예요. 특정 가격에 사고팔라는 권유가 아니며, 가격이 어느 자리에 있는지 보는 용도로만 써 주세요.</p>
   </section>
 
